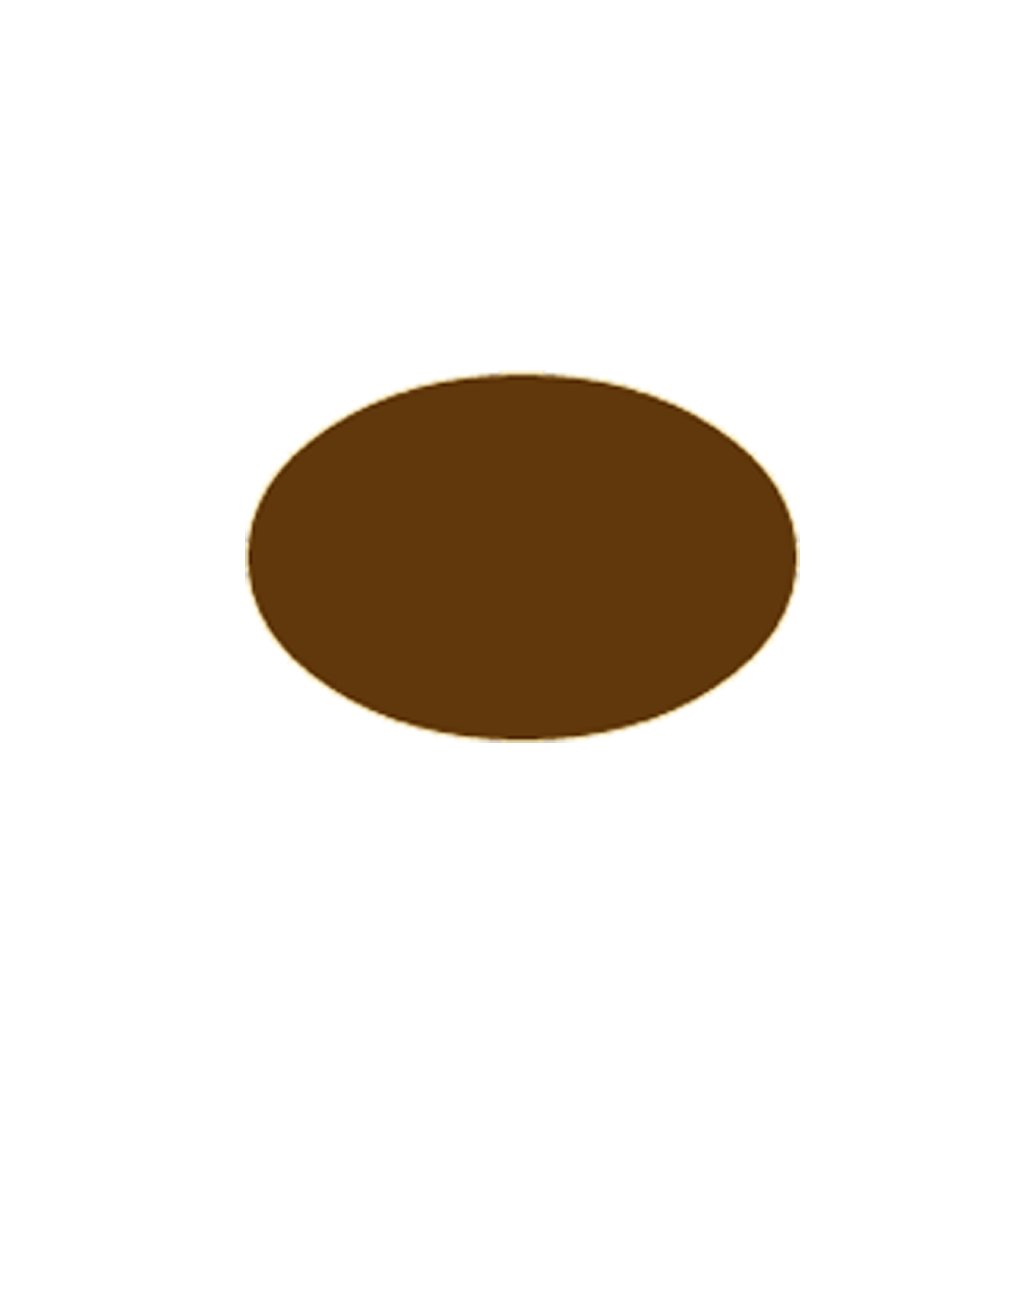
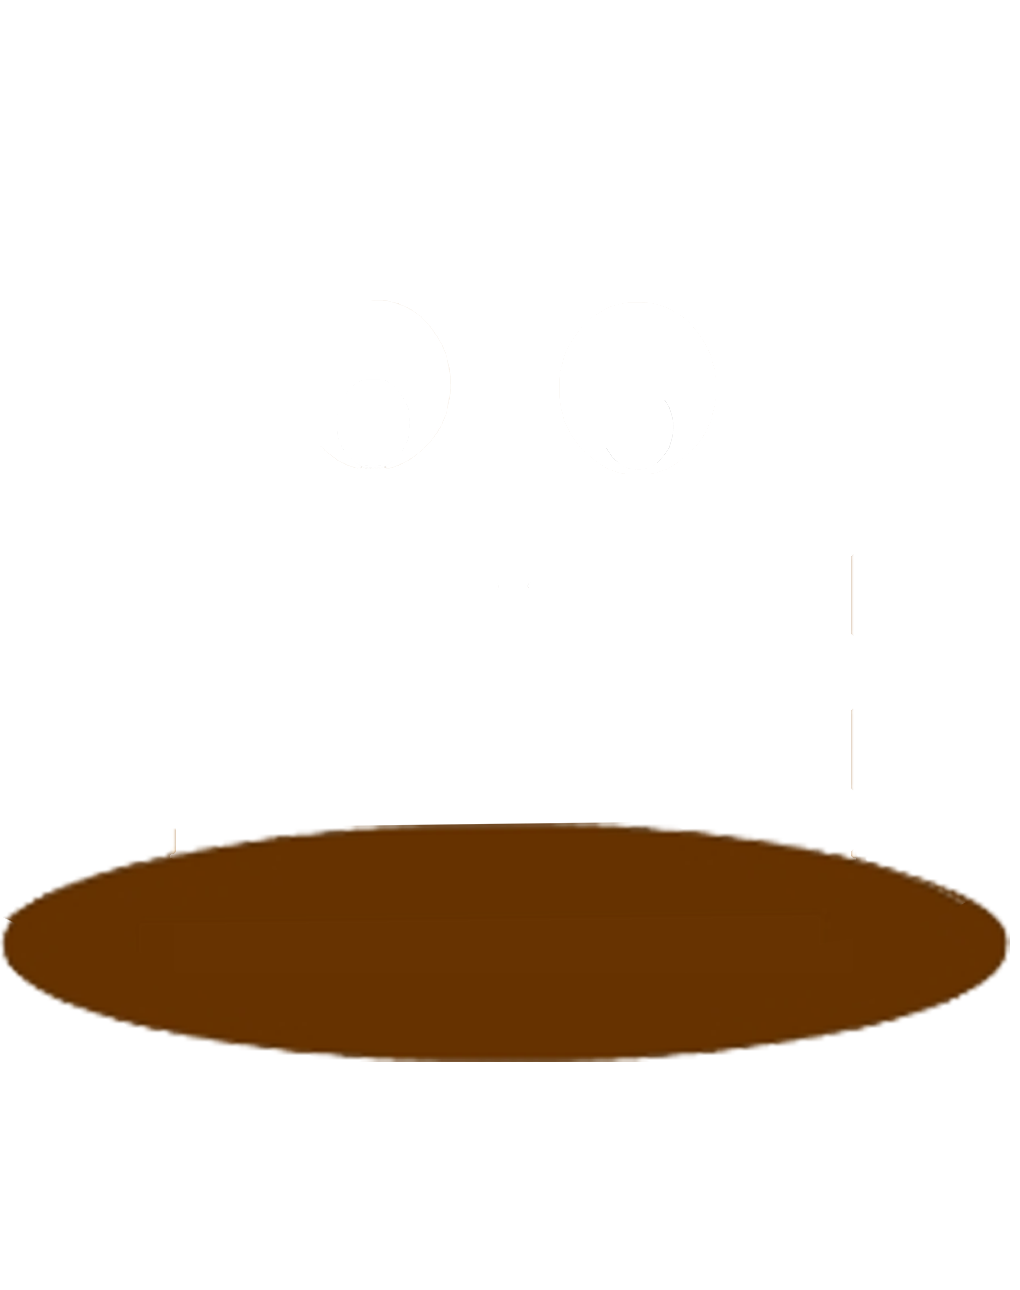
mole appears every certain amount of time

Changed region(s): [[0.0, 0.6202, 1.0, 0.8372], [0.2431, 0.2791, 0.7902, 0.5891]]

diff --git a/src/app/whack-a-mole/WackaMoleGame.tsx b/src/app/whack-a-mole/WackaMoleGame.tsx
@@ -1,14 +1,34 @@
 'use client';
-import React, { useRef, useState } from 'react';
+import React, { useEffect, useRef, useState } from 'react';
 import WackaMoleHummer from './WackaMoleHummer';
-import { log } from 'console';
-import Image from 'next/image';
 import WakeaMoleHole from './WakeaMoleHole';
 
 const WackaMoleGame = () => {
   const gameContainerRef = useRef<HTMLDivElement | null>(null);
-  const Holes = Array(8).fill(0);
-  console.log(Holes);
+  const [holes, setHoles] = useState(Array(8).fill(0));
+
+  useEffect(() => {
+    const interval = setInterval(() => {
+      const randomIndex = Math.floor(Math.random() * holes.length);
+      setHoles((curmoles) => {
+        const newHoles = [...curmoles];
+        newHoles[randomIndex] = 1;
+        return newHoles;
+      });
+
+      setTimeout(() => {
+        setHoles((cur) => {
+          const newHoles = [...cur];
+          newHoles.fill(0);
+          return newHoles;
+        });
+      }, 500);
+    }, 1000);
+
+    return () => {
+      clearInterval(interval);
+    };
+  }, [holes]);
 
   return (
     <div
@@ -16,8 +36,8 @@ const WackaMoleGame = () => {
       className="w-11/12 flex-1 relative border bg-wack-a-mole-bg bg-no-repeat bg-cover"
     >
       <div className="grid grid-cols-4 mt-[10%]">
-        {Holes.map((hole, idx) => (
-          <WakeaMoleHole key={idx} />
+        {holes.map((hole, idx) => (
+          <WakeaMoleHole key={idx} hole={hole} />
         ))}
       </div>
       <WackaMoleHummer gameContainerRef={gameContainerRef} />

diff --git a/src/app/whack-a-mole/WakeaMoleHole.tsx b/src/app/whack-a-mole/WakeaMoleHole.tsx
@@ -1,14 +1,35 @@
 import Image from 'next/image';
-import React from 'react';
+import React, { useEffect, useState } from 'react';
 
-const WakeaMoleHole = () => {
+type WakeaMoleProps = {
+  hole: number;
+};
+
+const WakeaMoleHole = ({ hole }: WakeaMoleProps) => {
+  const [moleAppeare, setmoleAppeare] = useState(hole);
+  useEffect(() => {
+    setmoleAppeare(hole);
+  }, [hole]);
+
   return (
-    <Image
-      src="/wack-a-mole-hole.png"
-      alt="Wack a mole hole"
-      width={150}
-      height={100}
-    />
+    <>
+      {moleAppeare === 0 ? (
+        <Image
+          src="/wack-a-mole-hole.png"
+          alt="Wack a mole hole"
+          width={150}
+          height={100}
+        />
+      ) : (
+        <Image
+          className="animate-summon-mole"
+          src="/wack-a-mole-mole-crope.png"
+          alt="mole"
+          width={150}
+          height={100}
+        />
+      )}
+    </>
   );
 };
 

diff --git a/tailwind.config.ts b/tailwind.config.ts
@@ -14,6 +14,21 @@ const config: Config = {
           'conic-gradient(from 180deg at 50% 50%, var(--tw-gradient-stops))',
         'wack-a-mole-bg': 'url(/wack-a-mole-bg.jpg)',
       },
+      animation: {
+        'summon-mole': 'summonMole 5s ease',
+      },
+      keyframes: {
+        summonMole: {
+          '0%': {
+            // opacity: '0',
+            transform: 'translateY: -100%',
+          },
+          '100%': {
+            opacity: '100%',
+            transform: 'translateY: 100%',
+          },
+        },
+      },
     },
   },
   plugins: [],
